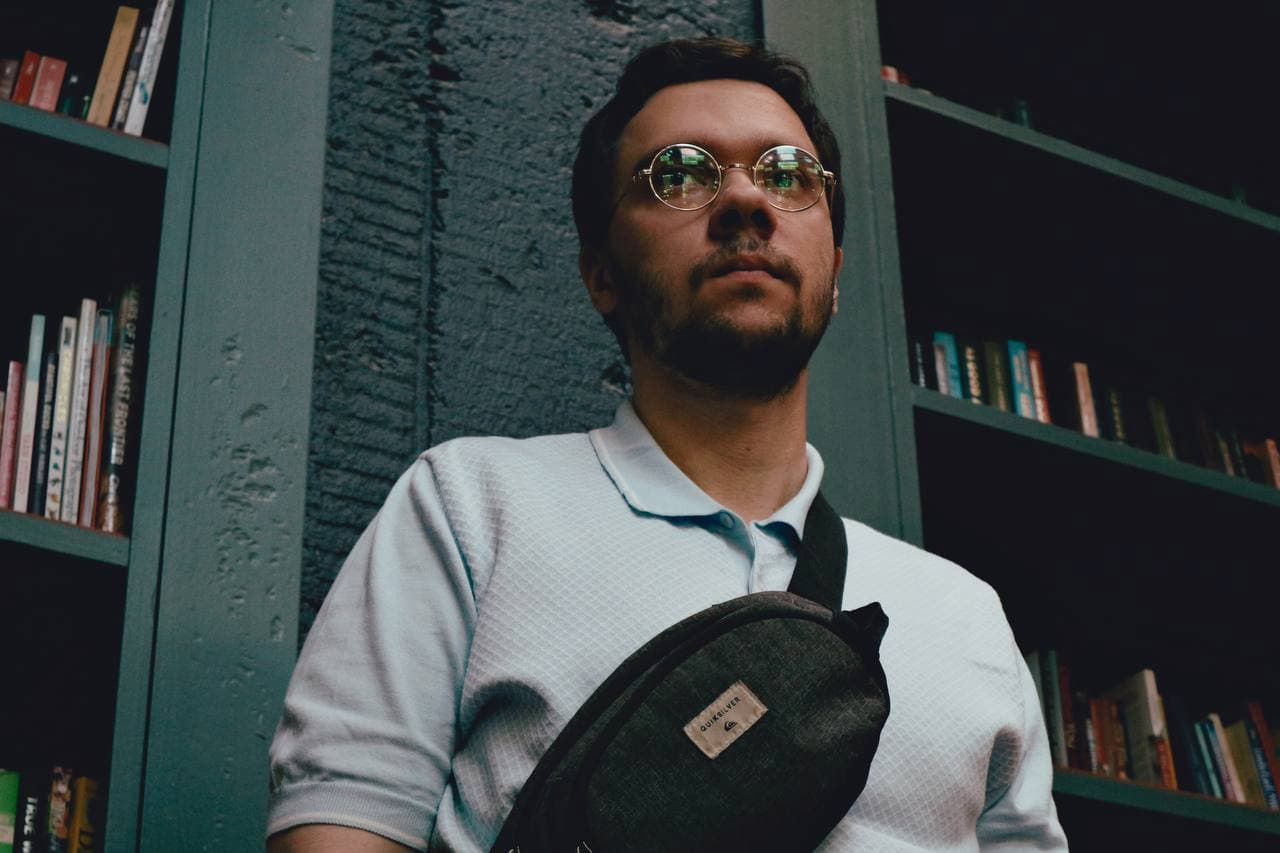
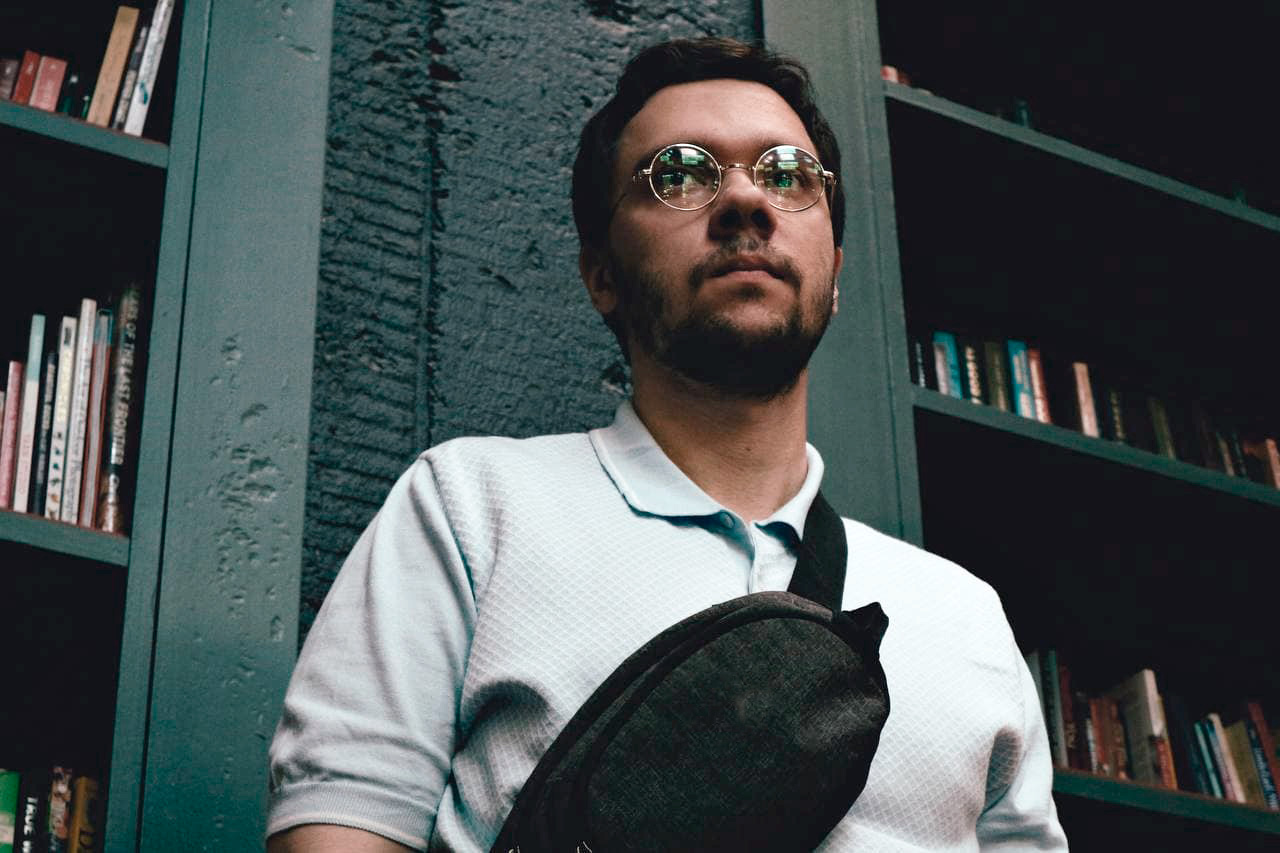
up.1 NewBanners

diff --git a/styles.css b/styles.css
@@ -116,7 +116,6 @@ body {
 }
 
 .hero-content {
-  max-width: 760px; /* текст не расползается на всю ширину — удобнее читать */
 }
 
 .hero-title {
@@ -125,6 +124,7 @@ body {
   text-transform: uppercase;
   letter-spacing: 4px;
   line-height: 1.05;
+  white-space: nowrap;
 }
 
 .hero-subtitle {
@@ -138,6 +138,9 @@ body {
   margin-top: 28px;
   font-weight: 300;
   color: var(--text-dim);
+  max-width: 760px;
+  margin-left: auto;
+  margin-right: auto;
 }
 
 /* ============================================================
@@ -165,19 +168,19 @@ body {
 .banner-soundtracks {
   background: 
     linear-gradient(rgba(0, 0, 0, 0.35), rgba(0, 0, 0, 0.35)),
-    url('images/soundtracks.jpg') center/cover;
+    url('images/banner-soundtracks.svg') center/cover;
 }
 
 .banner-videogames {
   background:
     linear-gradient(rgba(0, 0, 0, 0.35), rgba(0, 0, 0, 0.35)),
-    url('images/videogames.jpg') center/cover;
+    url('images/banner-videogames.svg') center/cover;
 }
 
 .banner-classic {
   background: 
     linear-gradient(rgba(0, 0, 0, 0.35), rgba(0, 0, 0, 0.35)),
-    url('images/classic.jpg') center/cover;
+    url('images/banner-classic.svg') center/cover;
 }
 
 /* ============================================================
